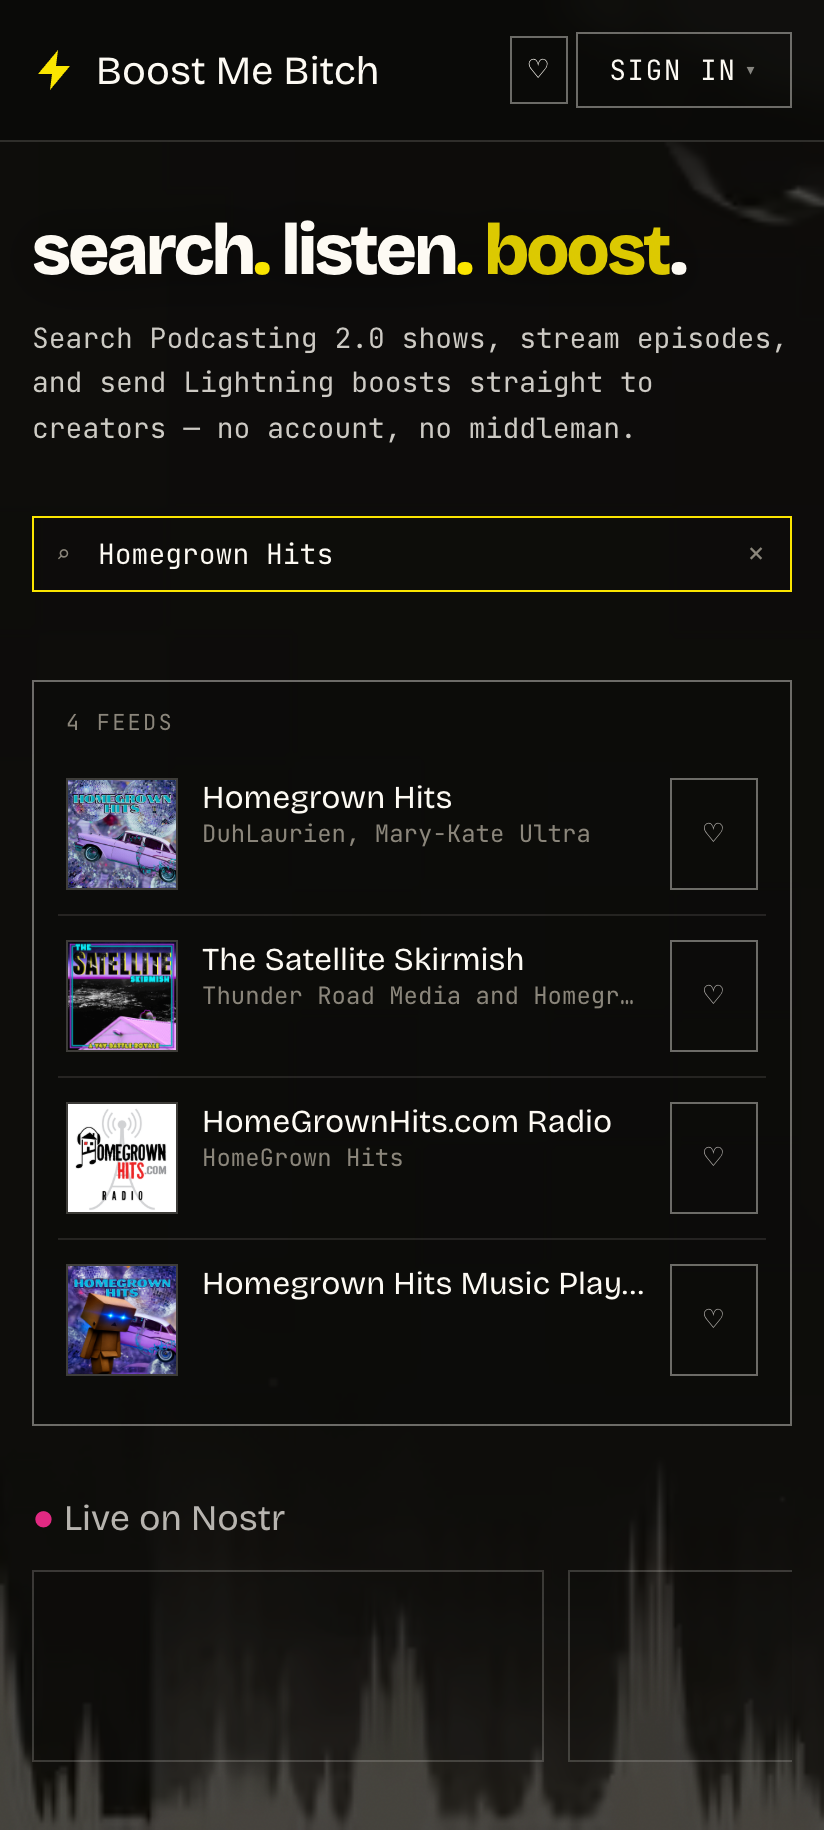
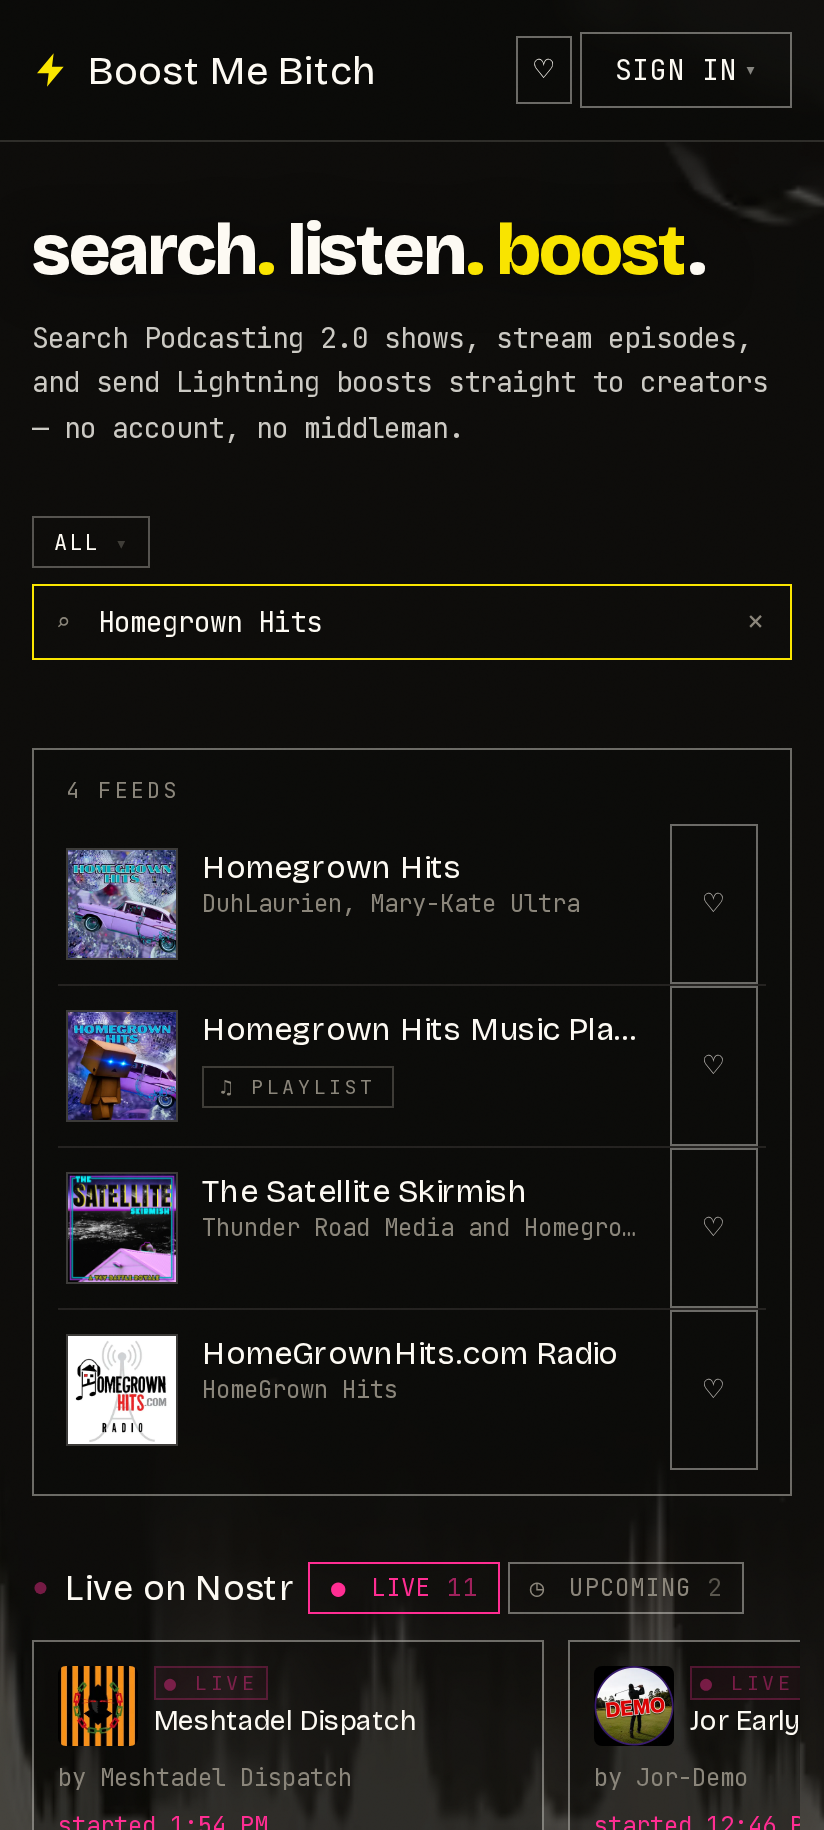
ci(android): make the first Zapstore publish able to succeed, prove it before a tag, and re-shoot the listing (#325)
* ci(android): make the first Zapstore publish able to succeed, and prove it before a tag

The publish step ran `zsp publish -y zapstore.yaml`. zsp v0.4.9 has no
`-y` flag and rejects it outright ("flag provided but not defined: -y"),
and nothing before a real tag push ever executed that step — runs 2 and
3 both skipped it. So the first tag would have built, verified, created
the GitHub release, and failed on the last step, half-published. The CI
form is `--quiet`. The runbook in docs/android.md carried the same
command, so both are fixed together.

Two more changes fall out of reading zsp's source at the pinned version:

- The publish step now FAILS when ZAPSTORE_SIGN_WITH is empty instead
  of exiting 0 with a notice. It only runs once `publish` is already
  true, so "no key" there is never a build-only run; a green run that
  created the GitHub release and left Zapstore empty is the shape
  CLAUDE.md names as a guard that silently withholds.

- A keyless dry run now runs on EVERY run, against the APK that was
  just built: `zsp publish --check zapstore.yaml`, then
  `SIGN_WITH=<the npub zapstore.yaml declares> zsp publish --quiet
  --offline zapstore.yaml`, which builds the three events unsigned to
  stdout and uploads nothing. That exercises every image path, the
  CHANGELOG section for the version, the icon download and zsp's own
  pubkey-mismatch check — none of which --check reaches — so the next
  `-y` is caught by a workflow_dispatch, not by the release.
[…]

diff --git a/docs/android.md b/docs/android.md
@@ -88,6 +88,18 @@ Bubblewrap regenerates the entire Gradle project from this file on every `update
 
 **`--skipPwaValidation` has a repo-specific reason, not a lazy one.** Bubblewrap's Quality Criteria check evaluates offline support, and `public/sw.js` deliberately precaches nothing (see [`ui.md`](ui.md) and the file's own comment). Validation would fail on a property this app has consciously chosen.
 
+**`zsp` runs on EVERY run, keyless, against the APK that was just built — and that step exists because the publish step shipped with a flag zsp does not have.** `zsp publish -y zapstore.yaml` was the published form, in this file and in the workflow, and zsp v0.4.9 rejects it: `flag provided but not defined: -y`. Nothing before a real tag push would ever have executed it, so the first tag would have built, verified, created the GitHub release, and failed on the last step — with the release half-published. The CI form is `--quiet` (no prompts, no spinners, auto-confirm); `-y` was never a zsp flag. The dry-run step is runbook step 5 moved into CI: `zsp publish --check zapstore.yaml` validates the config and proves `release_source` is a parseable APK, then `SIGN_WITH=<the npub zapstore.yaml declares> zsp publish --quiet --offline zapstore.yaml` builds the three events unsigned to stdout — every image path, the CHANGELOG section for this version, the icon download and zsp's own pubkey-mismatch check, none of which `--check` reaches. An `npub` in `SIGN_WITH` cannot sign, and `--offline` uploads and publishes nothing, so the step needs no secret and sends nothing.
+
+**WHO publishes to Zapstore is DECLARED by the repository variable `ZAPSTORE_PUBLISH_MODE`, and it defaults to `local`.** `local` means CI stops after the GitHub release and prints the zsp commands in the run summary; a human runs them with `SIGN_WITH=browser`, so the publishing key never enters GitHub. `ci` means the workflow publishes and `ZAPSTORE_SIGN_WITH` must hold the key — and a tag in that mode with the secret missing **fails early**, before the keystore is materialized and before `gh release create` runs.
+
+**The reason it is a declared mode and not a test of whether the secret exists** is worth keeping, because the obvious version shipped in this file first. That version failed any tag with no `ZAPSTORE_SIGN_WITH`, arguing from CLAUDE.md's *a guard that silently withholds must say so* — a green run that created the GitHub release and left Zapstore empty. The rule was right and the test was wrong: under `local`, an absent secret is the **normal** state, so the guard fired on every tag this repository ever intends to push. Keying it on the mode keeps the loud failure where it belongs and turns `local` into an announcement rather than a silence.
+
+**`zsp` is pinned at `v0.4.17`, and the bump off `v0.4.9` was forced by one thing: `v0.4.9` cannot read a Java keystore.** `internal/identity/x509.go` returns `ErrJKSFormat` the moment it sees the JKS magic bytes, so `zsp identity --link-key <the release .jks>` — step 7 below, the only way to prove the signing certificate belongs to the publishing npub — could not run at all at the version this workflow pinned. `v0.4.17` loads a JKS directly and adds `--key-alias` for it.
+
+Three things were read out of `v0.4.17`'s source before the bump, because the dry-run step depends on all of them: `--quiet`, `--offline` and `--check` are still defined in `internal/cli/options.go`; `outputOffline` still writes one JSON event per line to stdout; and `internal/config/config.go` is purely additive since `v0.4.9`, so `zapstore.yaml` still parses. Two behaviours changed and neither reaches us — `metadata_sources` now prefers Fastlane metadata on a GitHub repository, which `zapstore.yaml` overrides by naming `github` explicitly, and images are now compressed on upload (icon ≤512px, screenshots ≤1440px wide). Ours are 512×512 and 824×1830, so nothing downscales and `--no-compress` is not needed.
+
+**A further bump is a decision, not housekeeping:** run the workflow by `workflow_dispatch` with the new pin and read the dry-run step's output before a tag depends on it.
+
 **The step that earns the workflow is `Verify the origin will accept this certificate`.** It reads the SHA-256 out of the APK that was just built and fails the release unless the **live** statement list names that package and that fingerprint. It compares against the deployed route rather than a repo variable because a variable is a second copy that drifts — this one check catches "the Vercel env var was never set", "the key was rotated but the env wasn't" and "Vercel hasn't redeployed yet" identically. All three are otherwise invisible until someone installs the APK on a phone and sees a URL bar. The APK is uploaded as an artifact *before* that check runs, so a failure costs a re-run and not the build, and the message prints the exact string to paste into `ANDROID_CERT_SHA256`. On the very first release it will fail by design, because the fingerprint cannot exist until the keystore does.
 
 ## First release — what a human has to do
@@ -100,8 +112,9 @@ None of this can live in the repository.
      -alias boostmebitch -keyalg RSA -keysize 4096 -validity 10000
    ```
    **CAUTION: losing this file means never updating the app again** — not on Zapstore, not anywhere. Zapstore identifies an app by package name *and* signing certificate, so a replacement key is a different app.
-2. **Add the repository secrets:** `ANDROID_KEYSTORE_BASE64` (`base64 -w0 boostmebitch-release.jks`), `ANDROID_KEYSTORE_PASSWORD`, `ANDROID_KEY_PASSWORD`, and `ZAPSTORE_SIGN_WITH` (an `nsec1…` or a `bunker://…` URL). The key alias is not a secret and lives in `twa-manifest.json`.
-   **CAUTION: `ZAPSTORE_SIGN_WITH` becomes the app's publisher identity on Zapstore permanently.** It is not a fresh decision — `zapstore.yaml` declares `pubkey: npub177fz…`, the same publisher StableKraft uses, so both apps sit under one identity. Use the key for that npub; a bunker URL is the safer form. Because the pubkey is declared in the file, a mismatched signing key is caught rather than quietly publishing under a second identity.
+2. **Add the repository secrets:** `ANDROID_KEYSTORE_BASE64` (`base64 -w0 boostmebitch-release.jks`), `ANDROID_KEYSTORE_PASSWORD` and `ANDROID_KEY_PASSWORD`. The key alias is not a secret and lives in `twa-manifest.json`.
+   **`ZAPSTORE_SIGN_WITH` is deliberately NOT in that list.** This repository publishes to Zapstore in mode `local` (see below), so the publishing key never enters GitHub at all.
+   **CAUTION: whichever key first publishes becomes the app's publisher identity on Zapstore permanently.** It is not a fresh decision — `zapstore.yaml` declares `pubkey: npub177fz…`, the same publisher StableKraft uses, so both apps sit under one identity. Because the pubkey is declared in the file, a mismatched signing key is caught rather than quietly publishing under a second identity.
 3. **Print the fingerprint** and set the Vercel production environment:
    ```bash
    keytool -list -v -keystore boostmebitch-release.jks -alias boostmebitch | grep SHA256
@@ -114,13 +127,57 @@ None of this can live in the repository.
    ```
    The last one is Google's own parser and reports a `debugString` on failure.
 4. **Re-capture the screenshots if the UI has moved** (`node scripts/shoot-screenshots.mjs`) and commit them. `images:` in `zapstore.yaml` already names the three paths, so a renamed or missing file fails the publish rather than dropping an image — re-shoot and re-commit together. Use `--manual` when a shot needs a specific show; the boost modal in particular shows whatever wallet state the test browser is in.
-5. **Dry-run zsp** before the first real publish, and read the output as a Zapstore user would:
+5. **Dry-run zsp** before the first real publish, and read the output as a Zapstore user would. CI now runs the first two on every workflow run (see "The release path"), so a `workflow_dispatch` on `main` is the same check without a local Go toolchain:
    ```bash
    zsp publish --check zapstore.yaml
-   SIGN_WITH=npub1… zsp publish -y zapstore.yaml    # unsigned events, nothing sent
-   zsp apk --extract android/app-release-signed.apk # the permission list zsp will publish
+   SIGN_WITH=npub1… zsp publish --quiet --offline zapstore.yaml   # unsigned events to stdout, nothing sent
+   zsp apk --extract android/app-release-signed.apk               # the permission list zsp will publish
    ```
-6. **Tag it:** `git tag v0.1.0 && git push origin v0.1.0`.
+   `--quiet` is the CI mode. **`-y` is not a zsp flag at any version** and zsp rejects it; this runbook and the workflow both carried it until 2026-09-04.
+6. **Tag it:** `git tag v0.1.0 && git push origin v0.1.0`. Push the tag from `main` only, and `concurrency` never cancels the run. Under the default mode `local` that run builds, signs, verifies the origin, dry-runs zsp and creates the **GitHub** release — then stops, and prints the commands below in its summary. Nothing reaches Zapstore until a human runs them.
+6.5. **Publish to Zapstore, from the machine that holds the keystore.** `SIGN_WITH=browser` starts a local NIP-07 signer and opens a browser to sign each event, which is how the sibling app releases and why no key is in GitHub:
+   ```bash
+   curl -fL -o ~/bin/zsp https://github.com/zapstore/zsp/releases/download/v0.4.17/zsp-0.4.17-linux-amd64
+   chmod +x ~/bin/zsp                                    # no Go toolchain needed
+   gh release download v0.1.0 -p 'app-release-signed.apk' -O android/app-release-signed.apk --clobber
+   SIGN_WITH=browser zsp publish zapstore.yaml
+   ```
+   Do **not** pass `--quiet` here: it auto-confirms, which is the opposite of what a browser signer is for. `release_source` names that local path, so the download has to land exactly there.
+7. **Link the signing certificate to the publisher identity, once, by hand.** zsp checks the relays for a kind 30509 identity proof before publishing and, in `--quiet` mode, treats a missing one as a warning rather than a prompt — so the first CI publish goes out unlinked, and Zapstore cannot show that the key that signed the APK belongs to the npub that published it. The proof needs the keystore, which CI deliberately deletes, so this is a local step:
+   ```bash
+   SIGN_WITH=browser zsp identity --link-key ~/keystores/boostmebitch-release.jks \
+     --key-alias boostmebitch                                 # default expiry 1y
+   zsp identity --verify android/app-release-signed.apk
+   ```
+   Under mode `local` this is no longer an easily-forgotten follow-up: it runs in the same session as step 6.5, on the same machine, with the keystore already in reach.
+   **CAUTION: this step needs `v0.4.17` or later, and the workflow pinned `v0.4.9` until 2026-09-04.** At `v0.4.9` a `.jks` is rejected on its magic bytes before anything reads it, so the command above could not run at all — converting the keystore to PKCS12 was the only route. `--key-alias` names the private-key entry (ours is `boostmebitch`, from `twa-manifest.json`); zsp needs it only when a keystore holds more than one, and passing it costs nothing. The proof expires after one year by default, so it recurs.
+8. **Confirm it landed** from the relay rather than from the run log — a green publish step proves zsp exited 0, not that `relay.zapstore.dev` holds the events. Query kind `32267` with `#d = ["com.boostmebitch"]` and kind `30063` referencing it (`nak req -k 32267 -d com.boostmebitch wss://relay.zapstore.dev`), or open the listing at zapstore.dev.
+
+## Where the first release stands — 2026-09-04
+
+Recorded so the next session does not re-derive it. Every row is a measured fact, not a reading of the code.
+
+| Done | Evidence |
+|---|---|
+| The workflow builds and signs the APK | Run 3 (`32547100056`, 2026-08-22, `main`): every step green through `Verify the origin will accept this certificate` |
+| The keystore secrets and the Vercel statement are set | Same run: the verify step compared the built certificate against the live statement and passed |
+| Google's parser accepts the statement | `digitalassetlinks.googleapis.com/v1/statements:list` returns one statement for `com.boostmebitch` |
+| The installed TWA works on a device | Pixel 6, 2026-08-21 and 2026-09-03 — Amber sign-in through the callback, "Restore from Nostr" over the clipboard (see [`signers.md`](signers.md)) |
+| **The device is GrapheneOS with NO Chrome, and the TWA verifies anyway** | Pixel 6, Android 17, build `2026081301`, 2026-09-04. Installed browsers are Vanadium, Brave, Firefox and Tor; `com.android.chrome` is absent and no default browser is set. The TWA binds to **`com.brave.browser/…CustomTabActivity`** and renders with **no URL bar**, so Digital Asset Links verification works on a non-Chrome Chromium. Every device verdict in this file was measured on that phone — read them as "GrapheneOS + Brave", not "stock Chrome" |
+| **A background favorites publish reaches the relays, and loses nothing** | 2026-09-04, against a list with 449 `i` tags. Add: 0 tags removed, 1 added, all 455 preserved in order. Remove: restored byte-identical to the baseline. Full method in "Risks a TWA has to survive", row 1 |
+| The screenshots are current | Re-shot 2026-09-04 against production, 824×1830, matching `public/manifest.json`'s declared `sizes`. The previous set was `ba85d4d`, **2026-08-20** — not 2026-08-29 (#269), which is a playlists PR that never touched them — with 183 commits behind it |
+| **zsp reaches the events, at the pinned version** | Run `33904270967` (2026-09-04, the PR branch): `zsp publish --check` printed `{"package_id":"com.boostmebitch"}`, and `--quiet --offline` built **3 unsigned events** for `npub177fz…` at `v0.4.17` — the 32267, 30063 and 3063 — with nothing uploaded. So the config parses, every image path resolves, the CHANGELOG has a `0.1.0` section, the icon downloads and the declared pubkey passes zsp's mismatch check |
+| The guard skips a build-only run | Same run: `Refuse a publish run with no Zapstore identity` is `skipped`, `publish=false`. It must never block a `workflow_dispatch` on a branch, and it does not |
+
+| Not done | Evidence |
+|---|---|
+| No tag, no GitHub release, no Zapstore listing | `git tag` is empty; the releases list is empty; a kind 32267 query for `com.boostmebitch` on `relay.zapstore.dev` returns nothing |
+| The publish step has never executed | Runs 2, 3 and `33904270967` all skipped it (`publish=false`); it carried `-y` until 2026-09-04 and would have failed. Everything up to it is now exercised, so the only unrun code on a tag is `zsp publish --quiet` itself and the `gh release` step above it |
+| The Zapstore publish itself has never been run | Mode is `local`, so it is a human step and always was going to be. `SIGN_WITH=browser` is proven for the sibling app and unproven here |
+| Shot 02's episode thumbnails are blank | Not the capture — the app. Those covers are 9 MB animated GIFs (`episode-149.gif` is 9,055,375 bytes), `/api/art` **502s** on them at every width in `ART_WIDTHS`, and `<PodcastCover>`'s ladder falls through to the raw URL, which never finishes painting. Belongs to [`ui.md`](ui.md), not to this release |
+| Rows 2–7 below have no verdict | No device session has covered NWC after backgrounding, Google sign-in, out-of-scope links, background audio, offline, or cold start |
+| The MUTES half is still unmeasured | Favorites are now measured (above). The kind:10000 private half is not: it is deliberately left unread on load under Amber, so its publish path has never been driven on a device |
+| Every device verdict rests on ONE phone, and it is not a typical one | GrapheneOS, no Chrome, no Google Play services. Stock Android with Chrome as the TWA provider is untested, and it is what most Zapstore users will install onto |
 
 ### Releasing locally instead
 
@@ -163,7 +220,23 @@ Every row below is a real code path that behaves differently inside a TWA than i
 
 *Exercised in the installed TWA, 2026-08-21:* Amber sign-in completes through the callback, and **"Restore from Nostr" — a `nip44_decrypt` on the clipboard path — completes too, and the wallet restored.** So `navigator.clipboard.readText()` does work in a Trusted Web Activity, which this row previously listed as unproven. `scope: "/"` already covers `/amber-callback`, so no manifest change was needed.
 
-*What that does NOT prove.* The clipboard path works because the user pressed a button and came back to tap — which is the gesture `invokeAmber` listens for. A request nobody initiated has nobody to come back, so **background publishes are the remaining risk**: favorites and mutes debounce-publish a `sign_event` unprompted. *Verify:* toggle a favorite in the TWA and see whether the kind:10333 actually reaches a relay, or whether it silently never signs.
+*What that does NOT prove.* The clipboard path works because the user pressed a button and came back to tap — which is the gesture `invokeAmber` listens for. A request nobody initiated has nobody to come back, so **background publishes were the remaining risk**: favorites and mutes debounce-publish a `sign_event` unprompted.
+
+**MEASURED 2026-09-04, and the answer is that a favorites publish is NOT unprompted — it RAISES AMBER.** Driven over CDP against the installed TWA, on a list with real history (57 shows, 230 episodes, 449 `i` tags). Favoriting one show logged `[amber] → sign_event (clipboard)`, brought `com.greenart7c3.nostrsigner/.SignerActivity` to the foreground with *"Wants you to sign a PC 2.0 Favorites"*, and published only after Accept. Un-favoriting did the same, **debounced** — Amber came up about five seconds after the toggle, not on the tap.
+
+So the failure this row feared does not happen, and the reason is worth keeping: nothing here is unattended. `sign_event` is a full app switch every time. That is safe for the data and expensive for the user — a session of favoriting is a session of app switches, and it is the argument for the NIP-46 path rather than a defect in this one.
+
+**What the publish did to the shared event, which is the part that matters.** Read from the relays before and after, not from the app:
+
+| | Event | Tags | Removed | Added |
+|---|---|---|---|---|
+| Before | `af53b60f570c…` | 455 | — | — |
+| After favoriting | `4e7202801617…` | 456 | **0** | 1 — `["i","podcast:guid:78864041-…"]` |
+| After un-favoriting | `b8cbff62d182…` | 455 | 1 (the same one) | 0 |
+
+All 455 baseline tags survived the add **in order, as a subsequence**, and the restored event is **byte-identical** to the baseline — same tags, same order, same empty `content`. The merge carries what it did not write, and `visibility`, `alt`, `medium` and `k` all came through untouched.
+
+*Two things observed on the way, neither a defect.* The mute list logged `[mutes] private mute list left unread — not spending a signer prompt here — the local cache still filters`, and said so on screen in a banner: the visible-guard rule working, and the reason `unattendedDecryptOk()` excludes Amber. And **`relay.damus.io` refused every WebSocket from this device**, with `relay.fountain.fm` answering `CLOSED` — the publish still landed on `relay.primal.net` and `nos.lol`. Two of four default relays unreachable is the normal case this design already assumes, not an outage worth chasing.
 
 **2. NWC and localStorage.** A verified TWA shares Chrome's storage partition for the origin, which is good (sign in once, in either place) and sharp: Android Settings → Chrome → "Clear storage" wipes the wallet credential and any local nsec with no server copy. Backgrounding also suspends the socket, and CLAUDE.md records that Alby's relay rate-limits connections **opened** — 28 dials in 83 s produced a `429` with `Retry-After: 600` — so a reconnect storm on every foreground is a real hazard. *Verify:* connect, boost, background five minutes, foreground, boost again; watch for a dial storm and for `NwcIndeterminateError` rendering as `?` rather than `✗`. Confirm storage survives a reboot, and that the Nostr/Drive backup path works, since it is the only recovery from a cleared profile.
 
